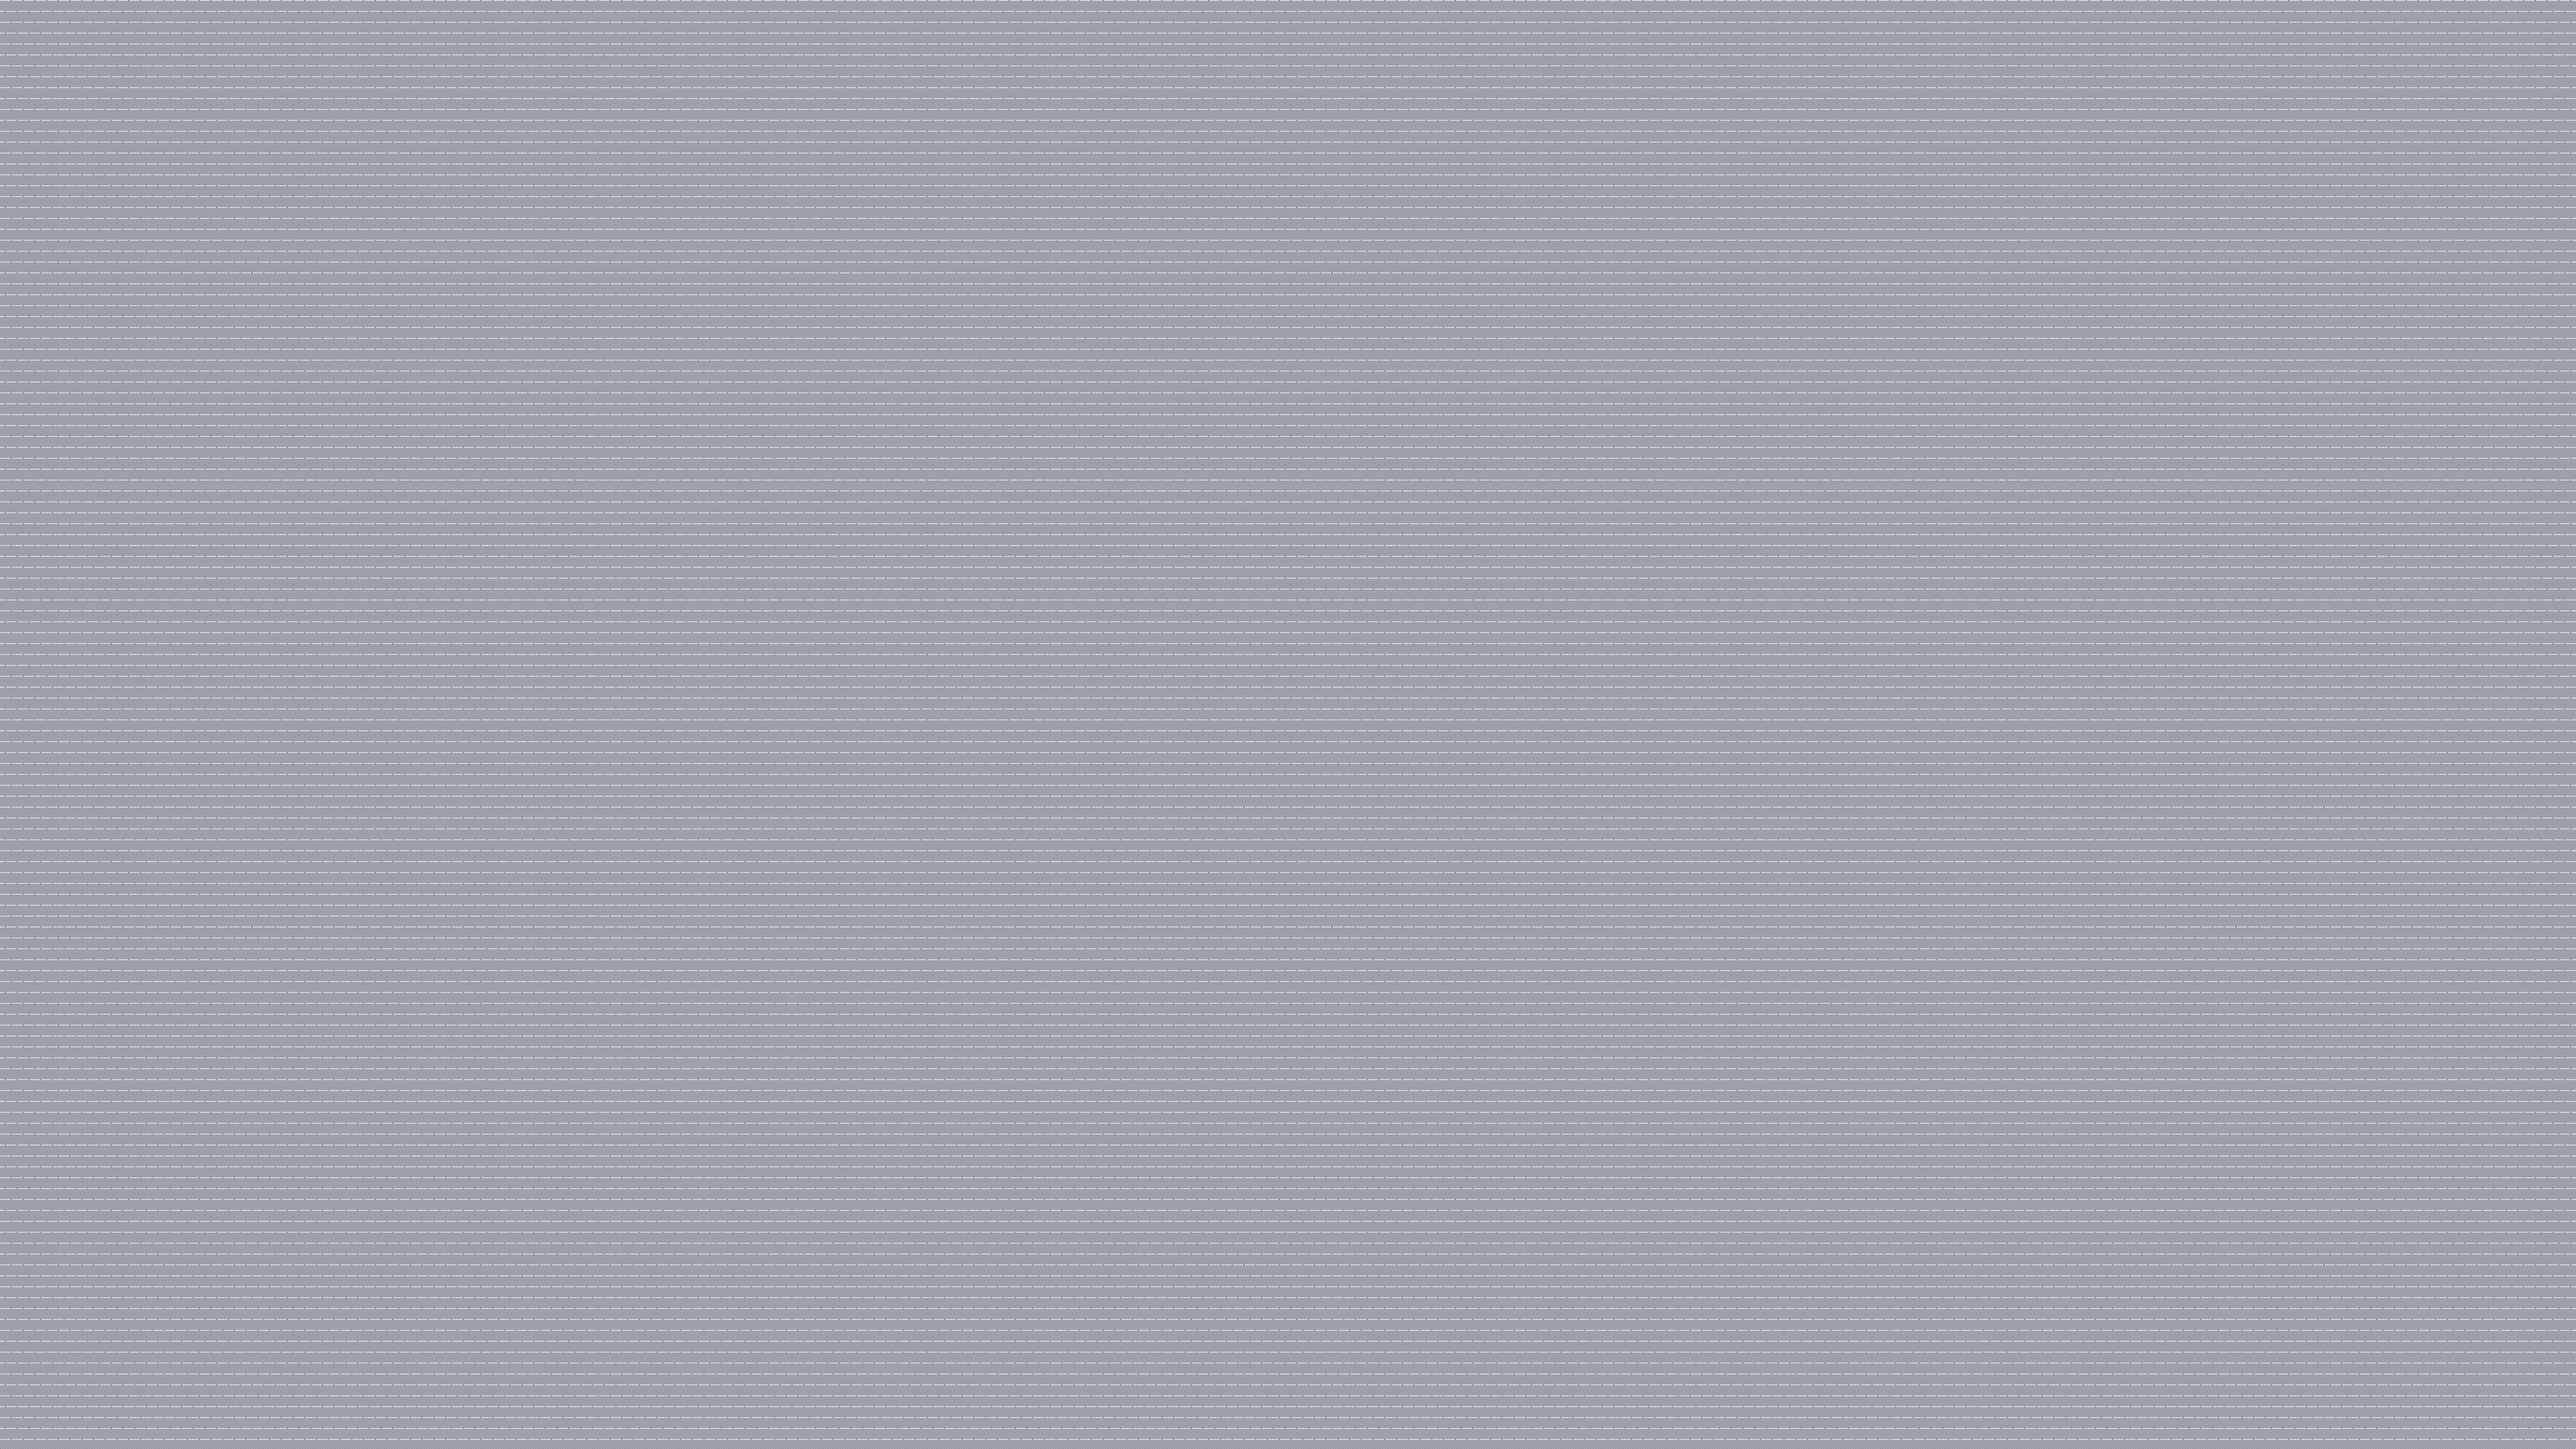
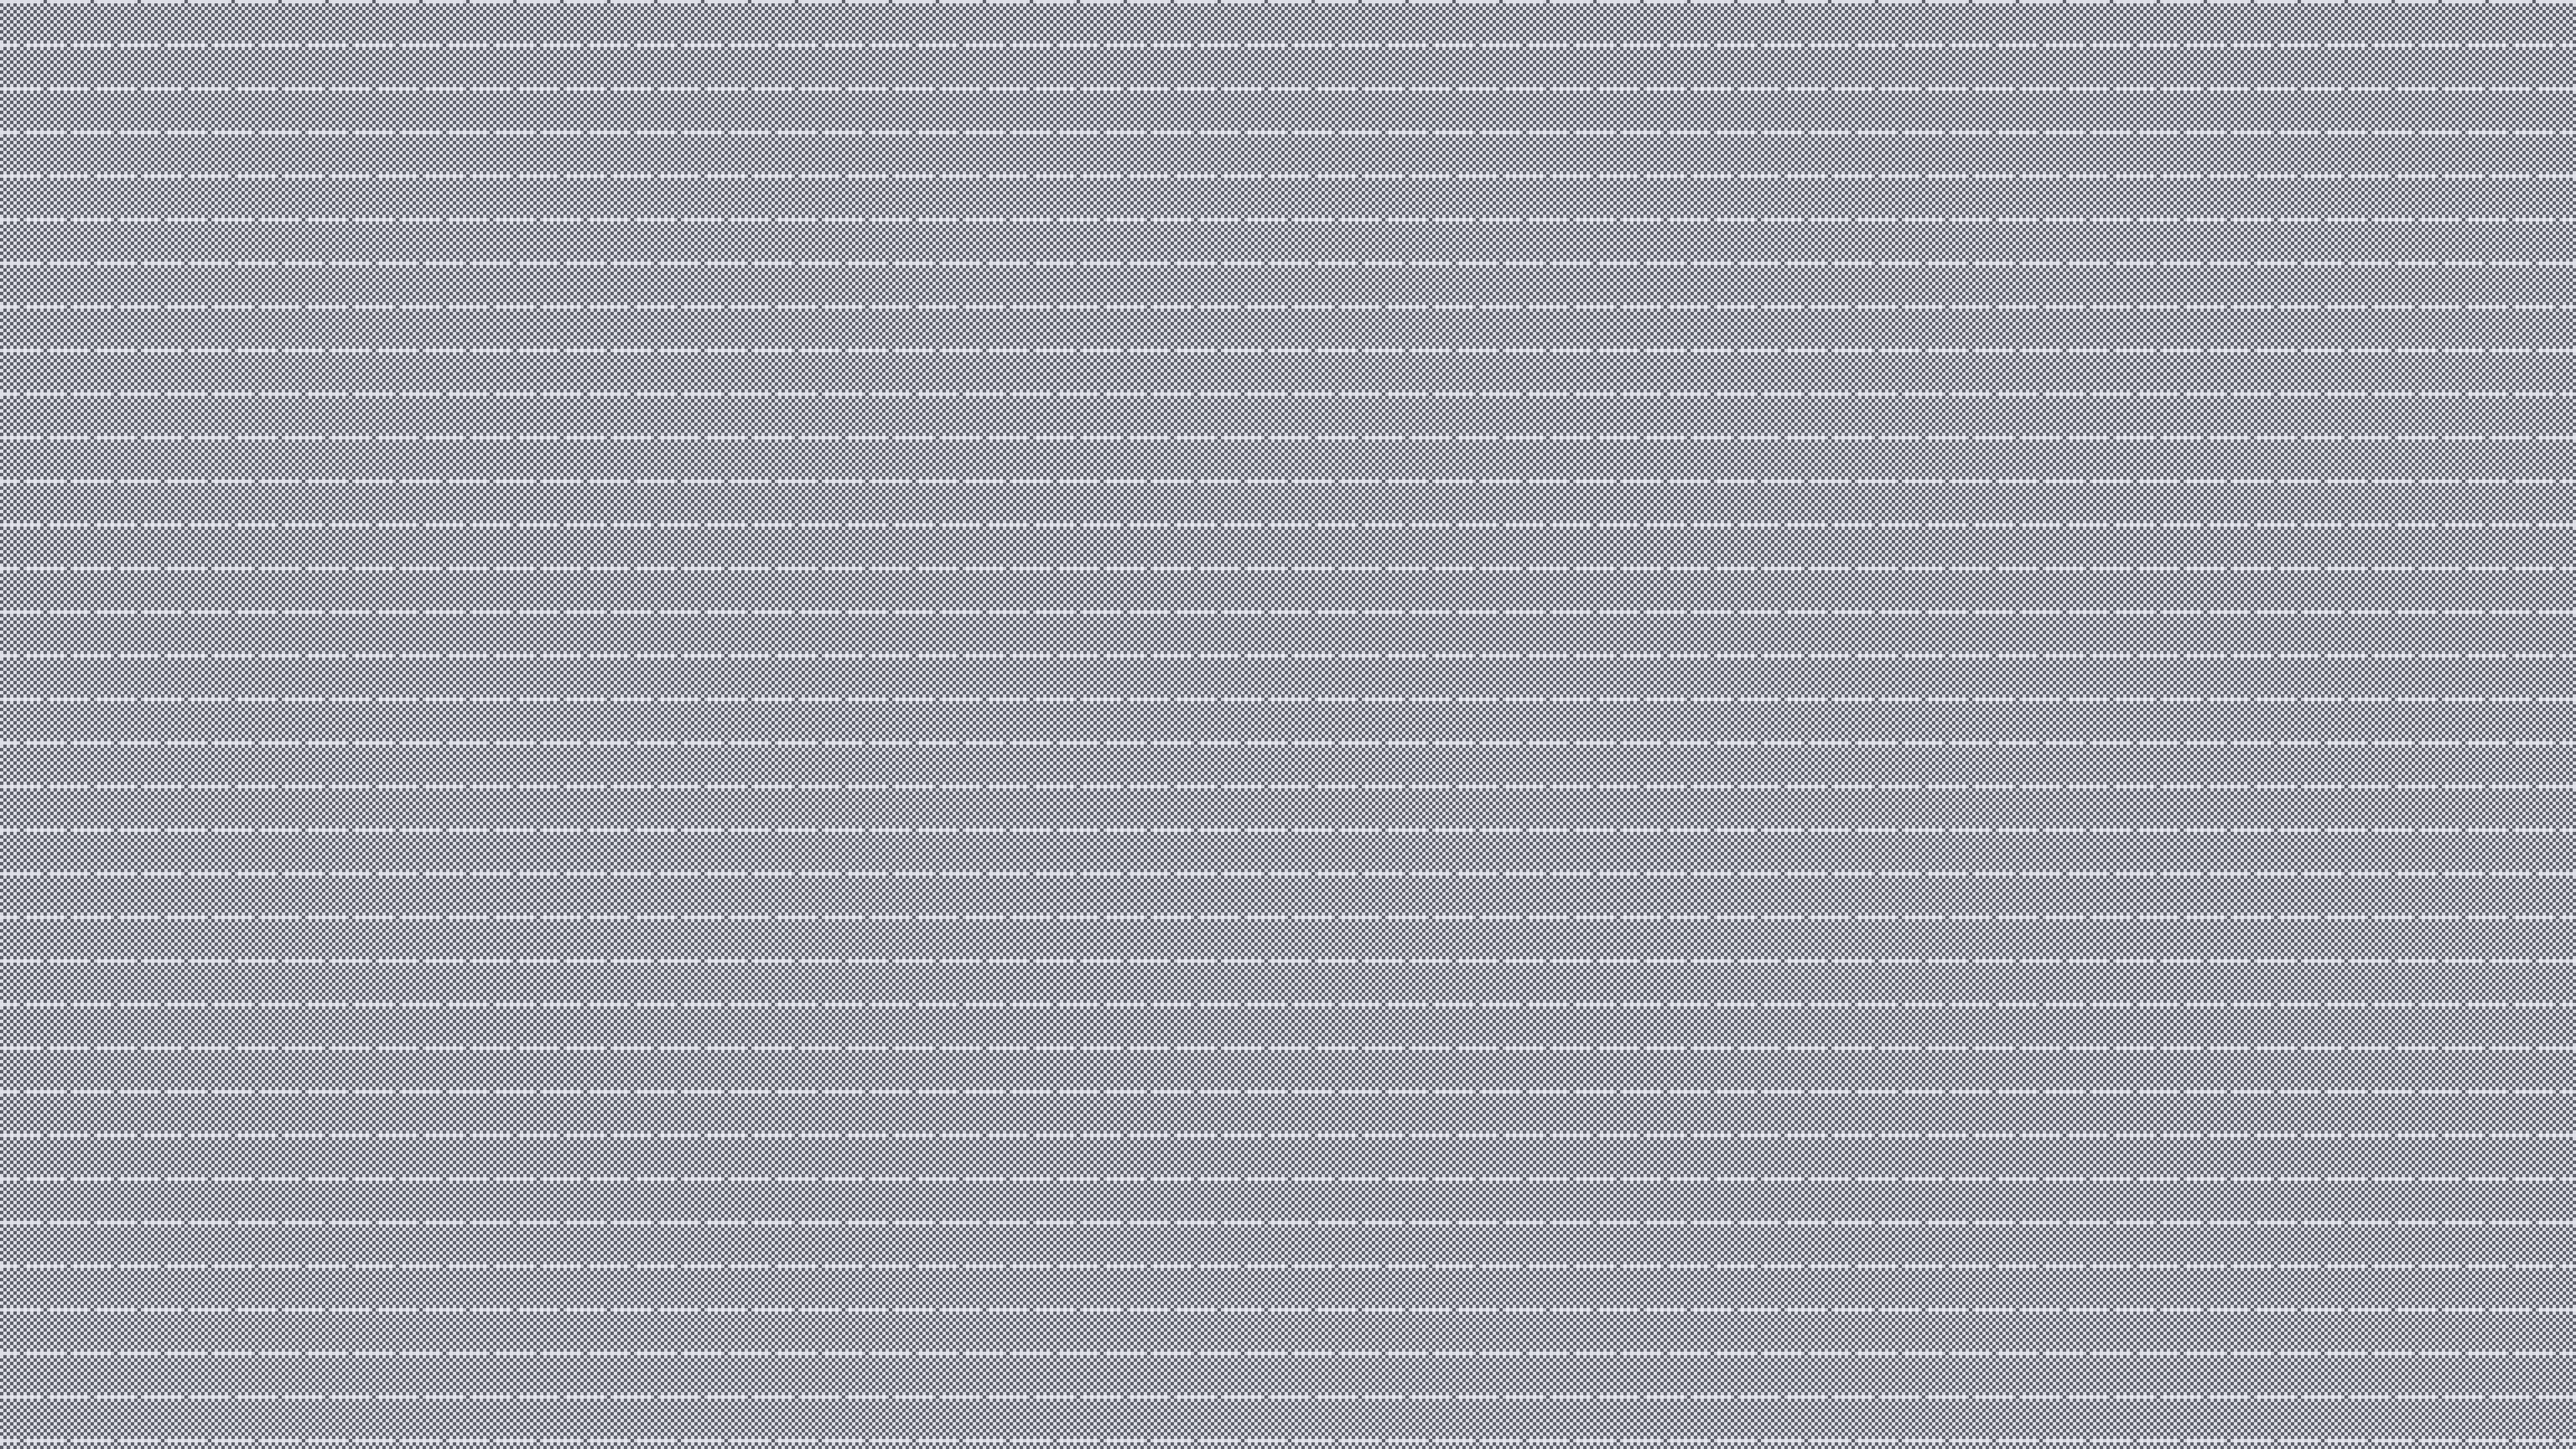
Refresh Solstice Daylight showcase and wallpapers

diff --git a/README.md b/README.md
@@ -1,74 +1,61 @@
-# Solstice — Daylight
+# Solstice Daylight for Omarchy
 
-An Omarchy theme inspired by the **Solaris 9 Common Desktop Environment (CDE)**.
-Calibrated pixel-by-pixel against real CDE desktop screenshots: the signature
-grey-lavender chrome, warm cream text canvas, and rose active/selection accent.
+A Solaris CDE-inspired light theme with grey-lavender chrome, a warm cream
+canvas, and rose accents.
 
-This is the **light** variant. See
-[Solstice Nightwatch](https://github.com/circumspace/omarchy-solstice-nightwatch-theme)
-for the dark companion.
-
-## Preview
-
-![Solstice Daylight](screenshots/daylight.png)
+![Solstice Daylight theme preview](preview.png)
 
 ## Install
 
-```bash
+```sh
 omarchy theme install https://github.com/circumspace/omarchy-solstice-daylight-theme
 ```
 
-Then select **Solstice Daylight** from the Omarchy theme picker.
+## Backgrounds
 
-Or manually:
+Fourteen CDE-inspired wallpapers are included. Cycle through them with
+`omarchy theme bg next`.
 
-```bash
-git clone https://github.com/circumspace/omarchy-solstice-daylight-theme \
-  ~/.config/omarchy/themes/solstice-daylight
-```
+![Solstice Daylight backgrounds](backgrounds.jpg)
+
+The 6K backdrops are generated from
+[NsCDE](https://github.com/NsCDE/NsCDE) XPM tile patterns and recolored to the
+Solstice Daylight palette.
 
 ## Palette
 
-| Role | Hex |
-|------|-----|
-| Chrome (panels, bars) | `#AEB2C3` |
-| Canvas (terminal, docs) | `#FFF7E9` |
-| Trough / recessed | `#9497A6` |
-| Rose (selection, active) | `#B24D7A` |
-| Ink (foreground) | `#000000` |
+| Role | Color |
+| --- | --- |
+| Background | `#FFF7E9` |
+| Foreground | `#000000` |
+| Chrome | `#AEB2C3` |
+| Accent | `#B24D7A` |
+| Recessed surface | `#9497A6` |
 
-Full 16-color ANSI palette in [`palette.txt`](palette.txt).
+Omarchy generates terminal, editor, and application themes from
+[`colors.toml`](colors.toml).
 
-## What's themed
+## CDE details
 
-- **Hyprland** — rose active border (`#B24D7A`), grey-lavender inactive border.
-- **GTK 3 / GTK 4** — chrome + rose selection overrides; sharp CDE corners
-  (`border-radius: 0`). GTK loads user CSS once at startup, so **restart** GTK
-  apps after switching *into or out of* this theme for colors to take.
-- **Terminal** — Ghostty / Alacritty / Kitty / foot palettes generated from
-  `colors.toml`.
-- **Browser chrome** — `chromium.theme` sets the frame tint; apply with
-  `omarchy theme set browser` (the policy write needs sudo). For full
-  toolbar/tab colors, enable **Use GTK** in the browser's appearance settings —
-  Chromium picks up this theme's GTK CSS.
-- **Neovim** — self-contained `neovim.lua` colorscheme (no plugin dependency).
-- **btop, Zed/VS Code, Helix** — generated from `colors.toml`.
+The theme includes sharp-cornered GTK 3/4 styling and a matching Chromium frame
+tint. GTK loads user CSS at startup, so restart GTK applications after switching
+into or out of this theme.
 
-## Wallpapers
+Detailed color values and their provenance are documented in
+[`palette.txt`](palette.txt).
 
-Five procedurally-generated backdrops in `backgrounds/` (6K, downscale cleanly),
-rendered from [NsCDE](https://github.com/NsCDE/NsCDE) XPM tile patterns
-recolored to this palette: **Solyaris, Dimple, Dune, Swirl, Squares**.
+## Solstice family
 
-## Provenance & credits
+- [Solstice Nightwatch](https://github.com/circumspace/omarchy-solstice-nightwatch-theme)
+  — dark violet and rose
+- [Solstice Crimson](https://github.com/circumspace/omarchy-solstice-crimson-theme)
+  — original Solaris CDE Crimson4 palette
 
-- Source screenshots: Solaris 9 CDE desktop captures (see [`palette.txt`](palette.txt)).
-- B00merang Project's [Solaris-9](https://github.com/B00merang-Project/Solaris-9) port.
-- NsCDE backdrops: https://github.com/NsCDE/NsCDE
+## Credits
 
-## Related
-
-- **[Solstice Nightwatch](https://github.com/circumspace/omarchy-solstice-nightwatch-theme)** — the dark companion.
+- Solaris 9 CDE desktop captures
+- [B00merang Project's Solaris 9 theme](https://github.com/B00merang-Project/Solaris-9)
+- [NsCDE](https://github.com/NsCDE/NsCDE)
 
 ## License
 
